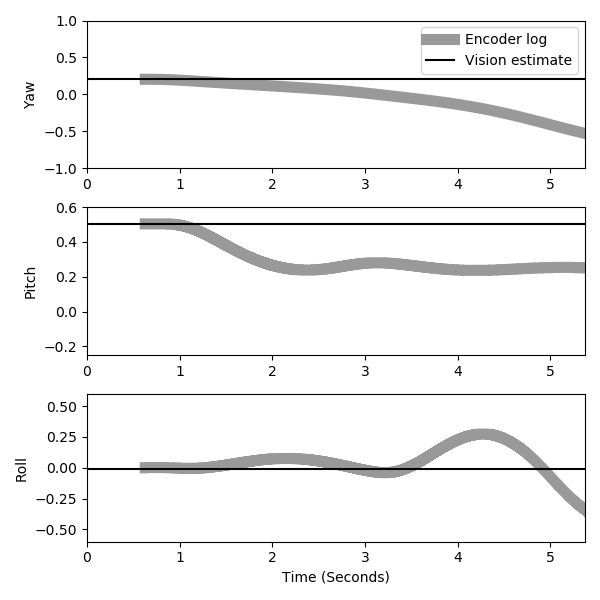
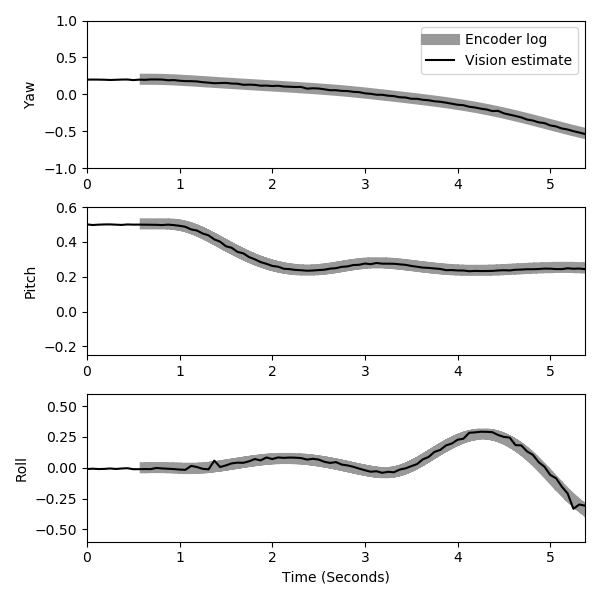
add: task 1c) + plot for report

diff --git a/Assignments/ex4/python/common.py b/Assignments/ex4/python/common.py
@@ -49,6 +49,8 @@ def normal_equations(uv, weights, yaw, pitch, roll):
     #
     # Task 1b: Compute the normal equation terms
     #
+
+    # Calculate Jacobian using two point finit-difference approximation
     J = np.zeros((7, 3))
     # Delta
     d = 0.01
@@ -76,10 +78,15 @@ def gauss_newton(uv, weights, yaw, pitch, roll):
     #
     # Task 1c: Implement the Gauss-Newton method
     #
+ 
     max_iter = 100
     step_size = 0.25
     for iter in range(max_iter):
-        pass # Placeholder
+        JTJ, JTr = normal_equations(uv, weights, yaw, pitch, roll)
+        delta = np.linalg.solve(JTJ, -JTr)
+        yaw = yaw + step_size * delta[0]
+        pitch = pitch + step_size * delta[1]
+        roll = roll + step_size * delta[2] 
     return yaw, pitch, roll
 
 def levenberg_marquardt(uv, weights, yaw, pitch, roll):

diff --git a/Assignments/ex4/python/main.py b/Assignments/ex4/python/main.py
@@ -25,7 +25,6 @@ for image_number in range(last_image + 1):
     weights = markers[:,0] # weight = 1 if marker was detected or 0 otherwise
     uv = markers[:, 1:3]
     if image_number == 0:
-        JTJ, JTr = normal_equations(uv, weights, yaw, pitch, roll)
         r = residuals(uv, weights, yaw, pitch, roll)
         print('Residuals on first image are:', r)
     yaw, pitch, roll = method(uv, weights, yaw, pitch, roll)
